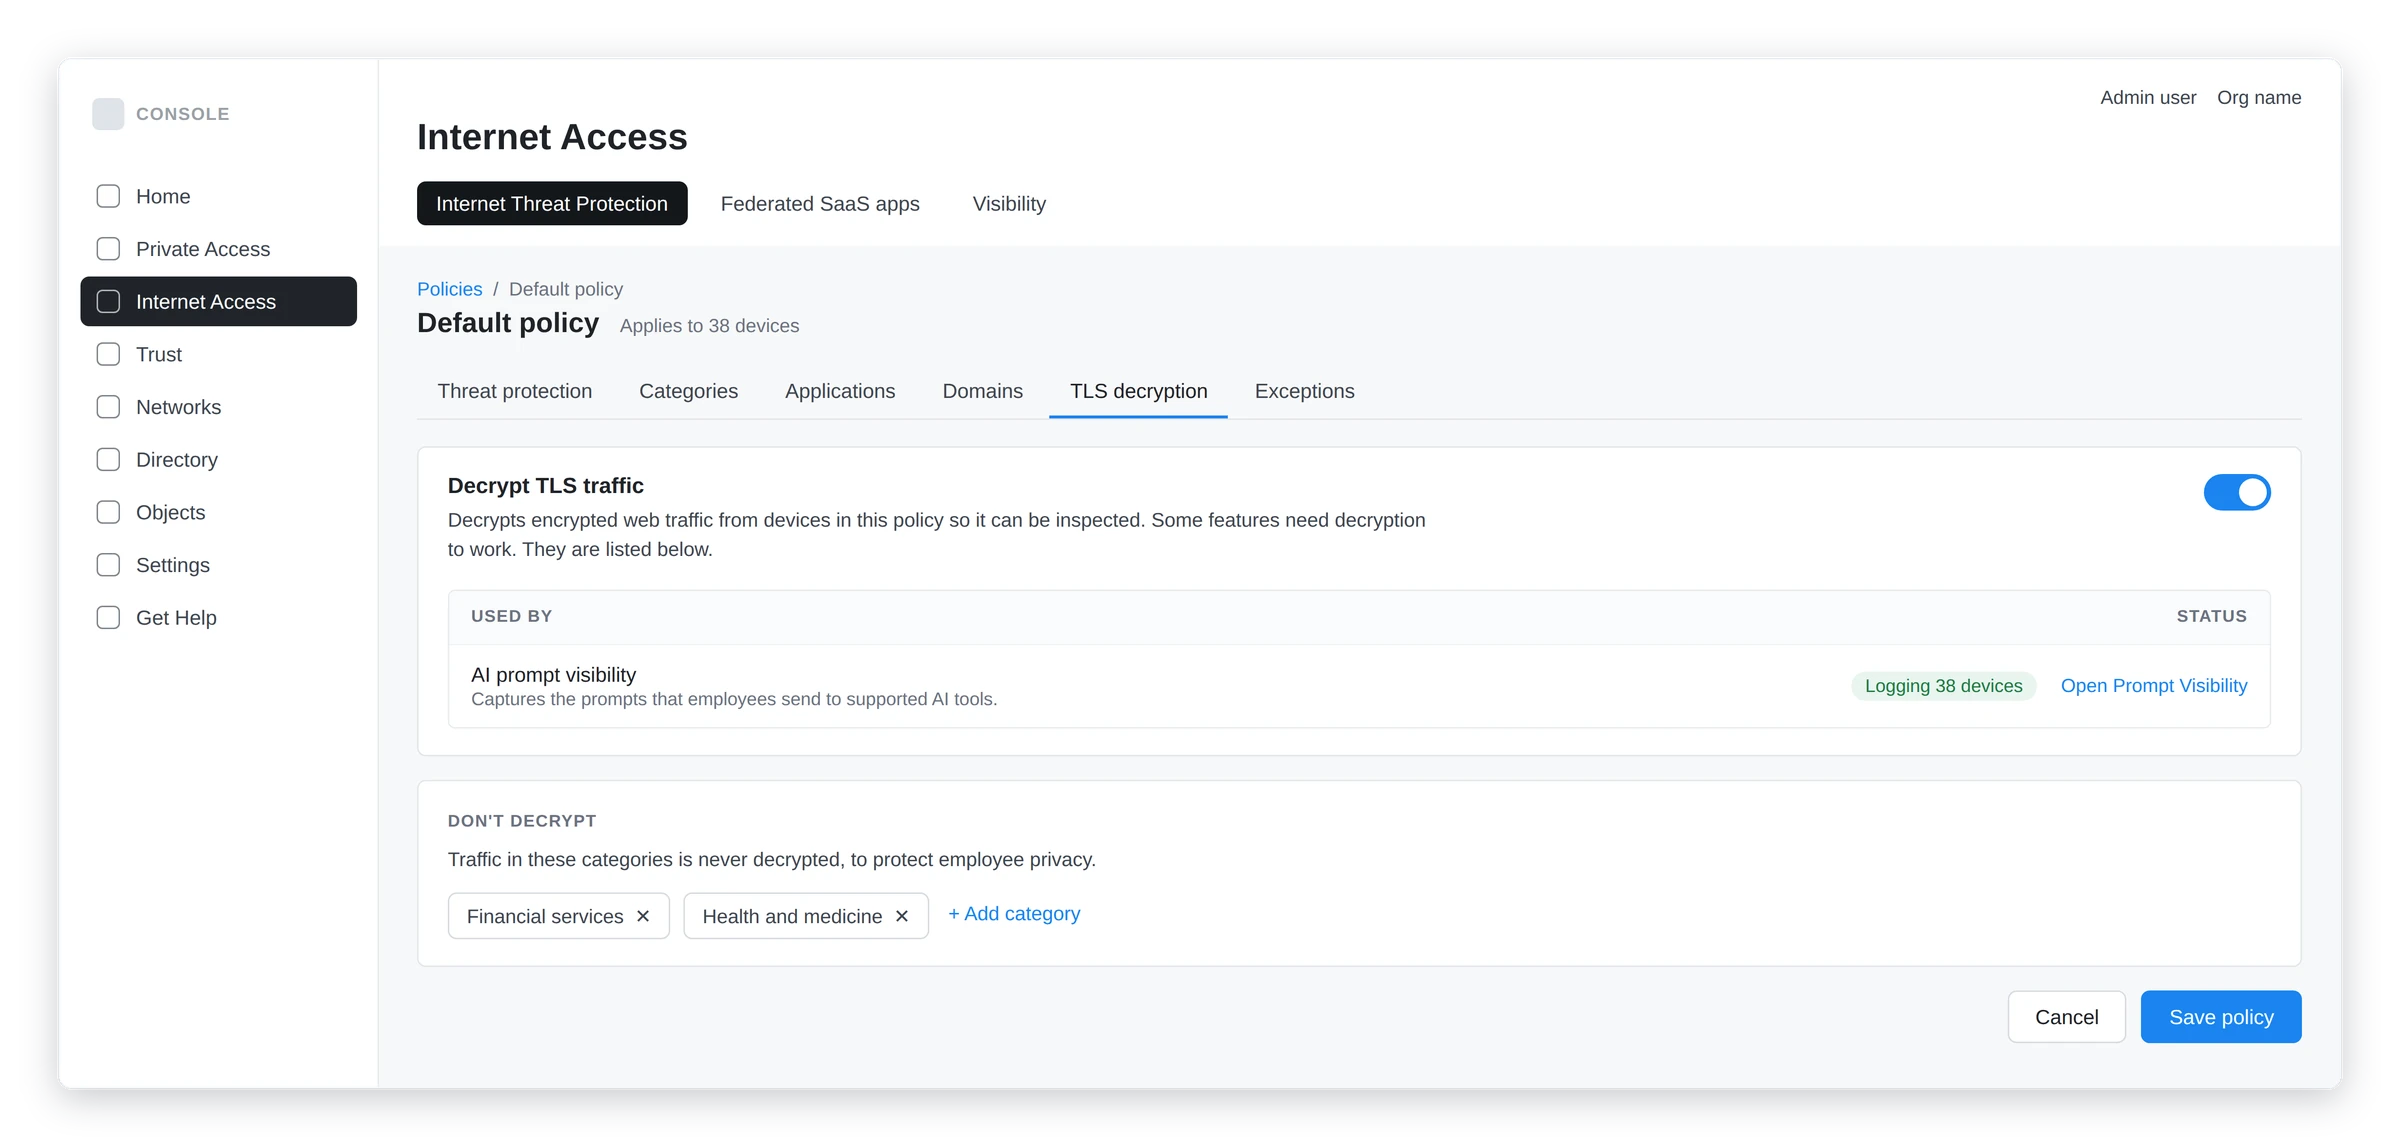
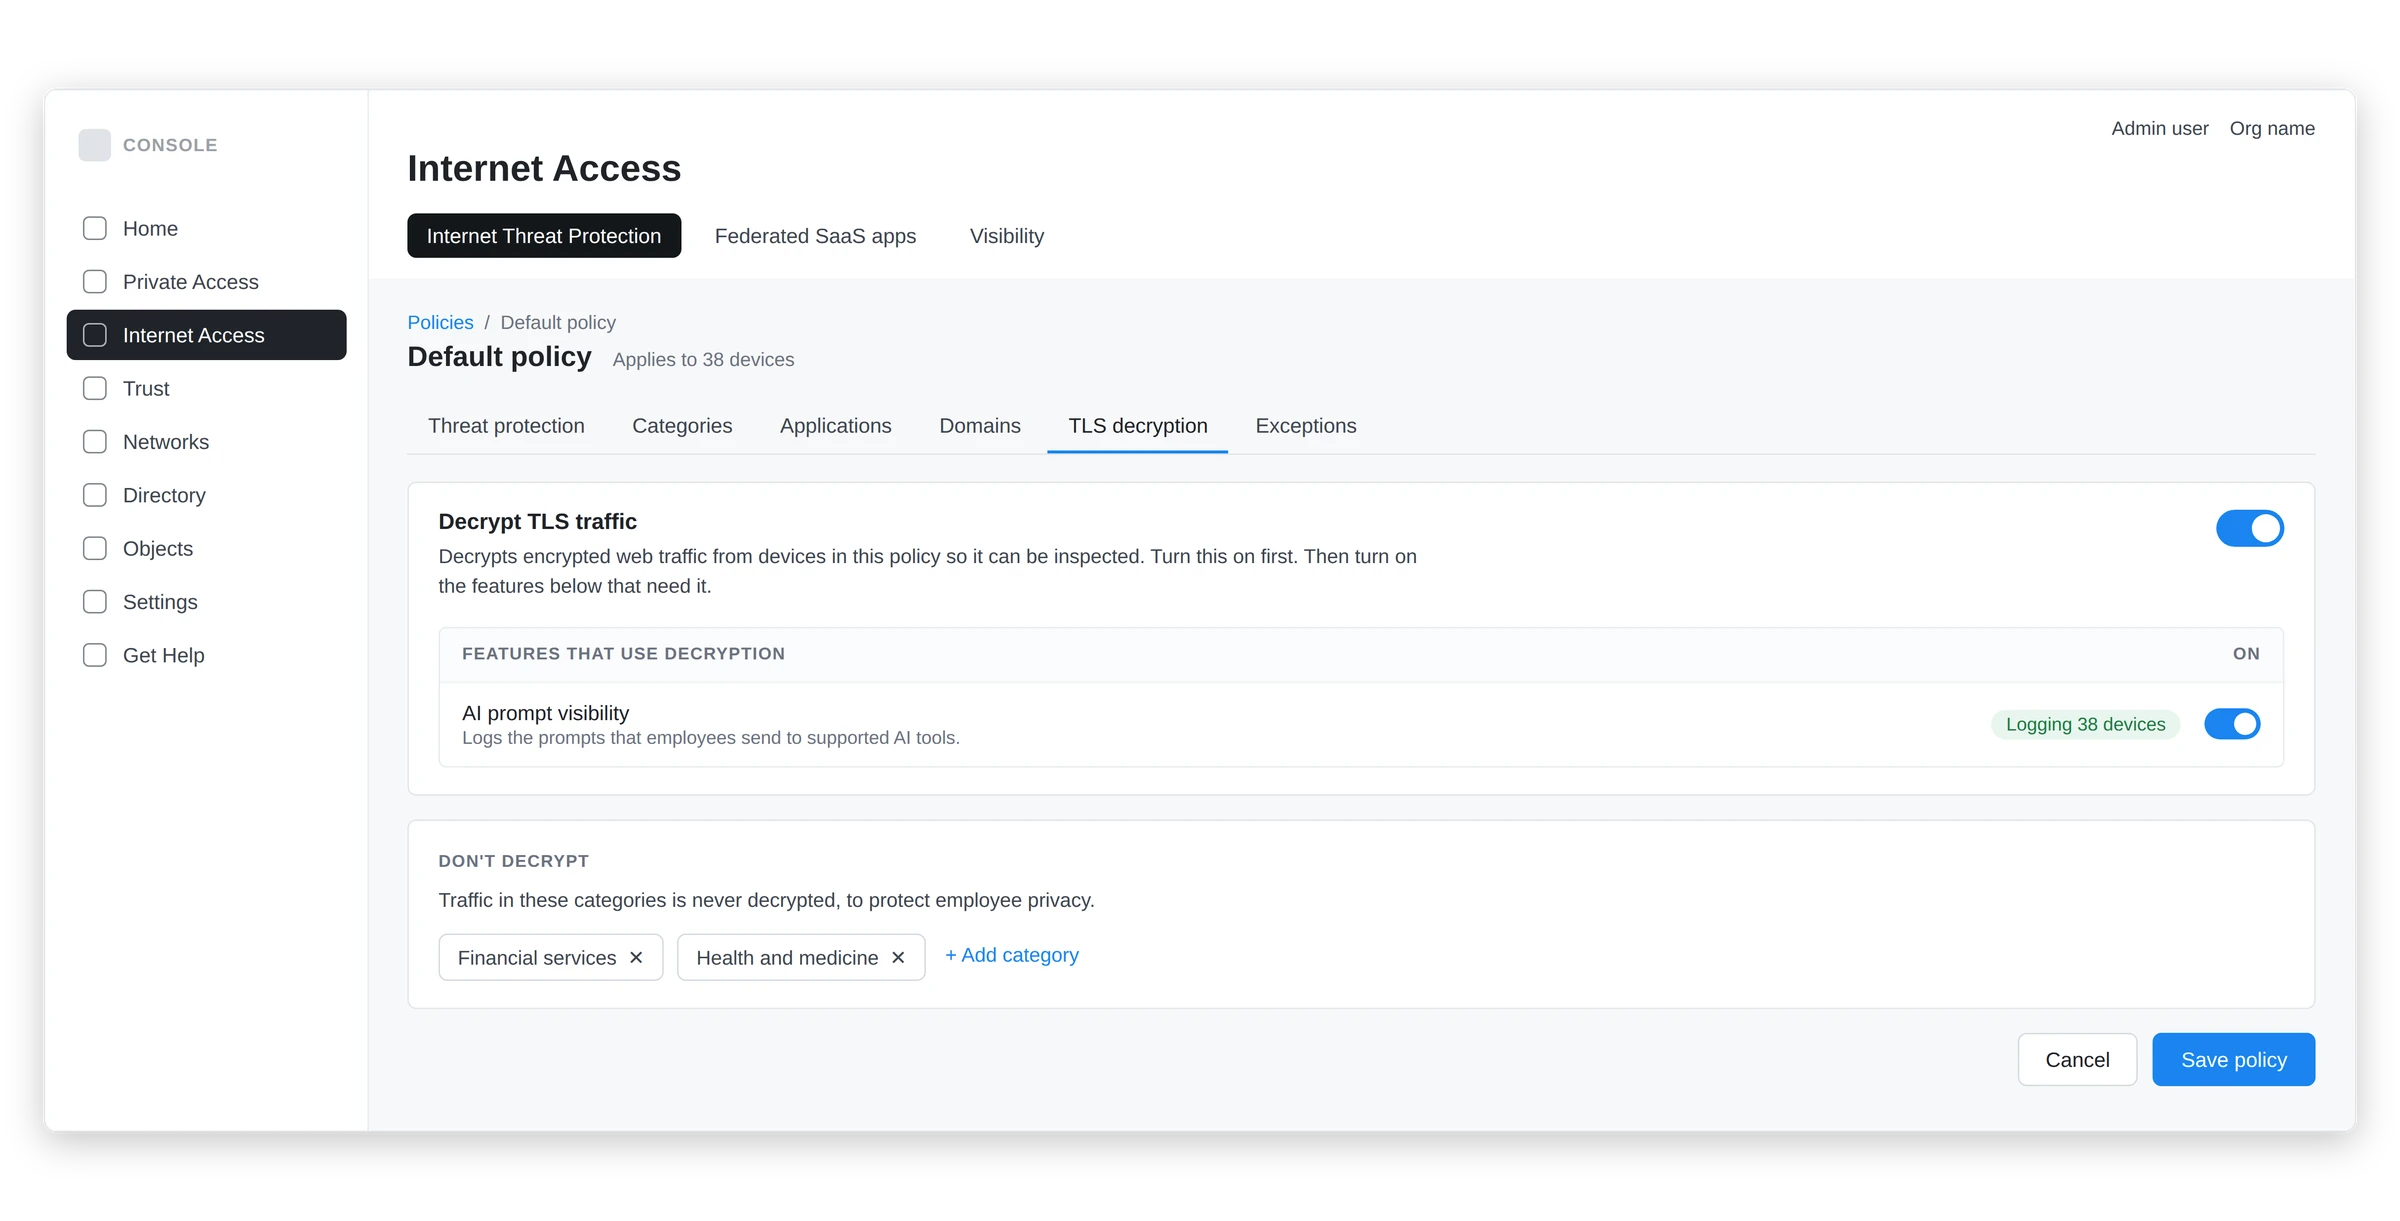
Add an AI prompt visibility switch under TLS decryption in the policy prototype
Claude-Session: https://claude.ai/code/session_01LSpc9GfWinUYVZHRac1AsR

diff --git a/docs/content-design/ai-prompt-visibility.md b/docs/content-design/ai-prompt-visibility.md
@@ -46,11 +46,11 @@ My first instinct was to put everything in one place. The first prototype moved 
 
 That constraint changed my mind about where the switch belongs. Decryption isn't really a logging setting. It's a policy setting, turned on one policy at a time, and each policy applies to specific user roles. So the second prototype puts the switch inside each Internet Threat Protection policy, where an admin can see exactly whose traffic they're about to decrypt.
 
-![The second prototype. An Internet Threat Protection policy has a TLS decryption tab with a decryption switch, a list of the features that use decryption, and a list of categories that are never decrypted.](/img/content-design/ai-prompt-itp-policy.webp)
+![The second prototype. An Internet Threat Protection policy has a TLS decryption tab with a decryption switch, a list of the features that use decryption with a switch for AI prompt visibility, and a list of categories that are never decrypted.](/img/content-design/ai-prompt-itp-policy.webp)
 
 The decryption tab also has two lists.
 
-- **Used by** names the features that depend on this policy's decryption, including AI prompt visibility. An admin who's thinking about turning decryption off can see that prompt logging would stop for the roles that this policy covers.
+- **Features that use decryption** lists AI prompt visibility with its own switch, right under the decryption switch. The admin turns on decryption first, then logging. And anyone thinking about turning decryption off can see that logging would stop too.
 - **Don't decrypt** names the website categories that always stay encrypted, such as financial services and health. Admins can protect employee privacy in the same place where they turn decryption on.
 
 Both designs are still prototypes. The product team picked the second direction for the roadmap. Until it ships, the docs walk admins through both settings in one procedure, decryption first, so nobody ends up staring at an empty log.
